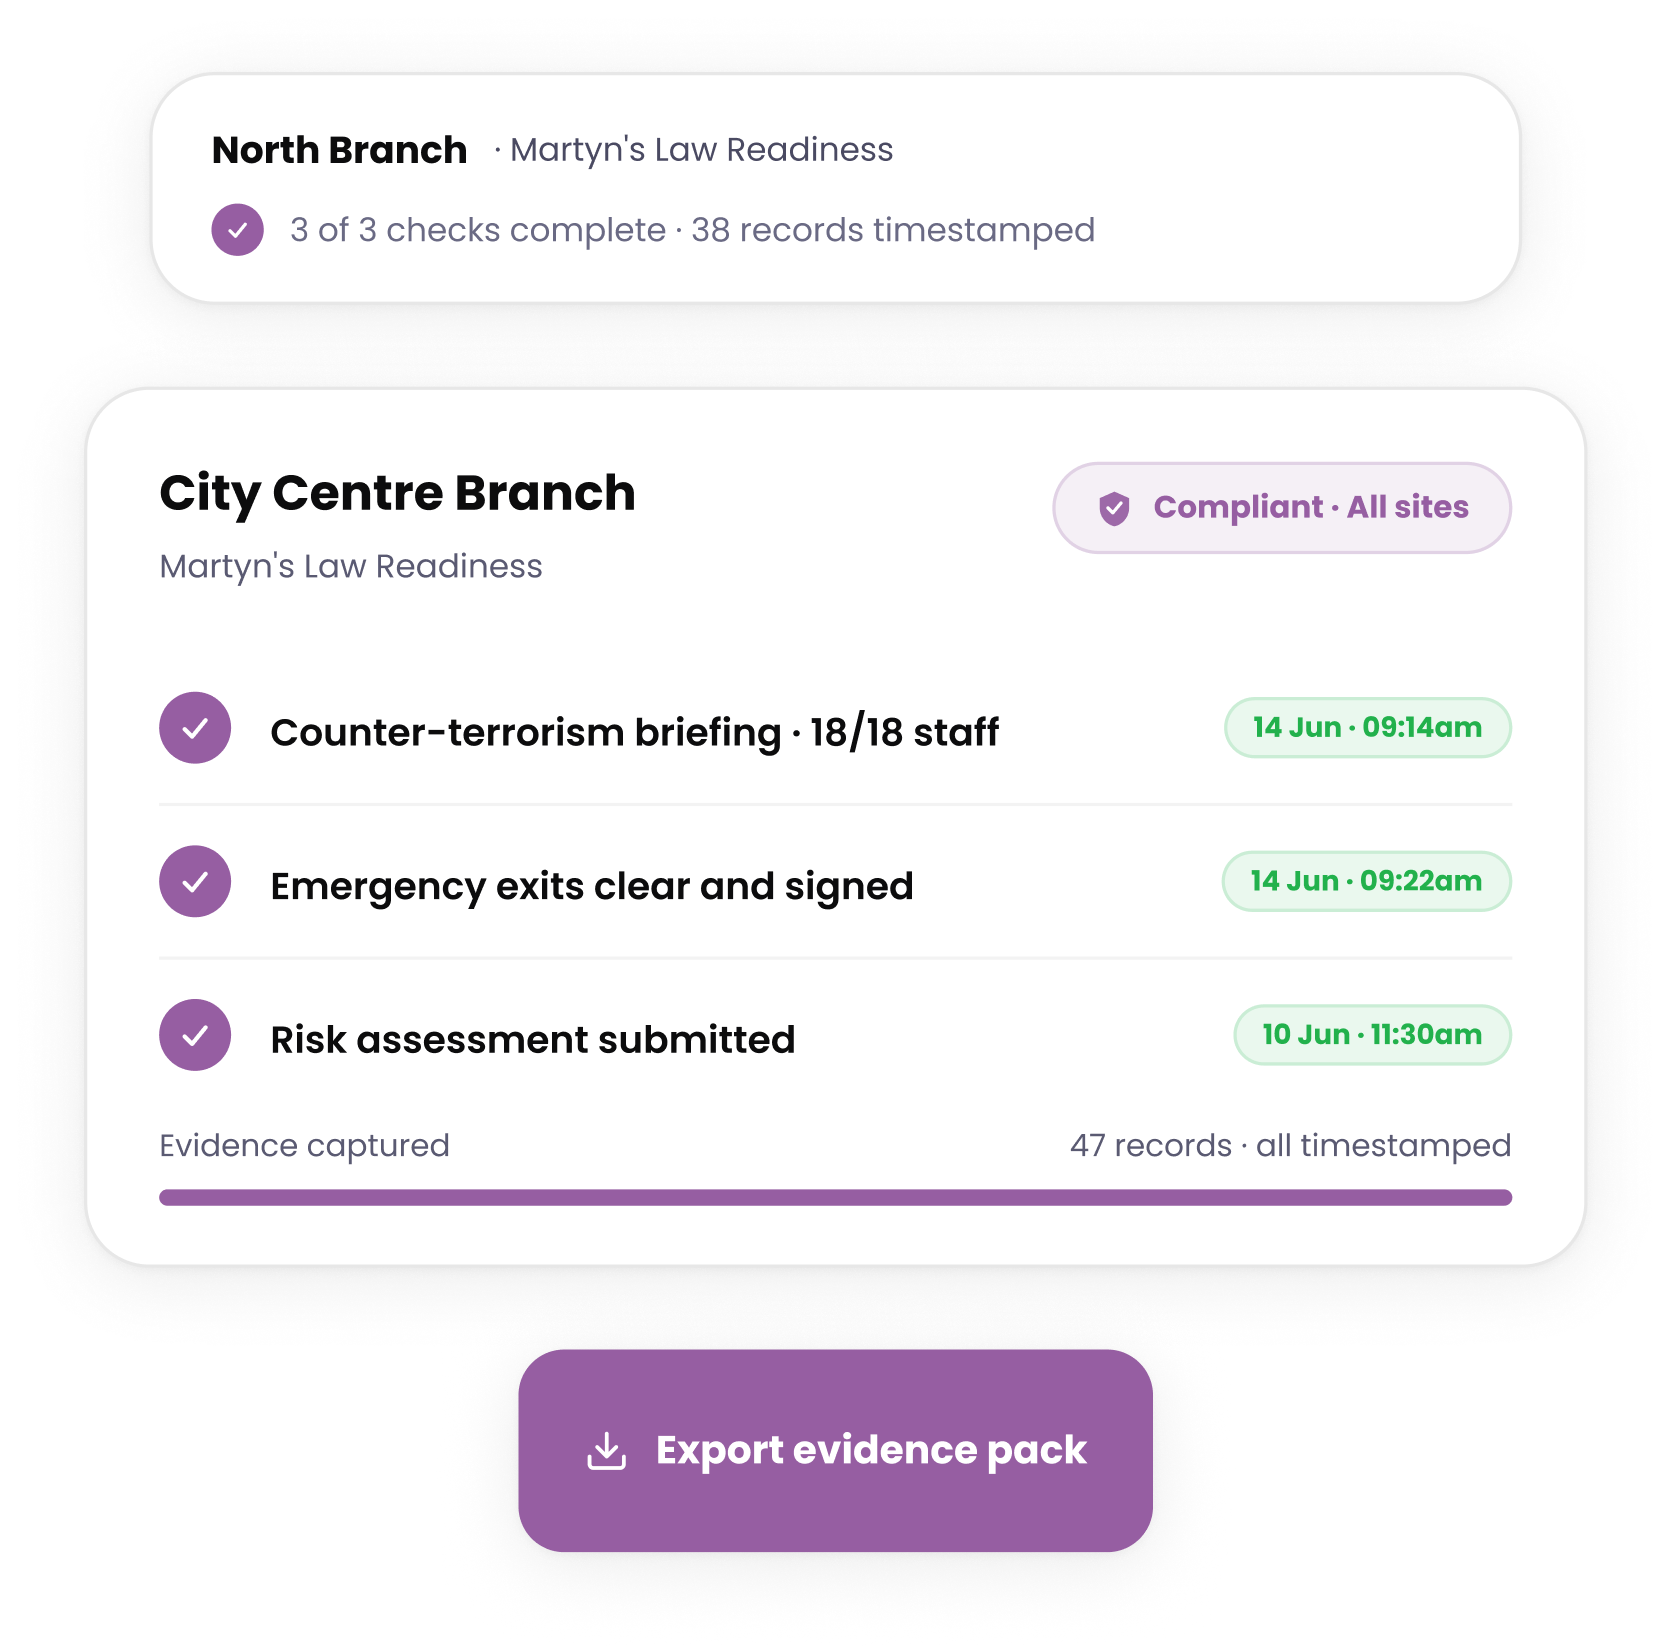
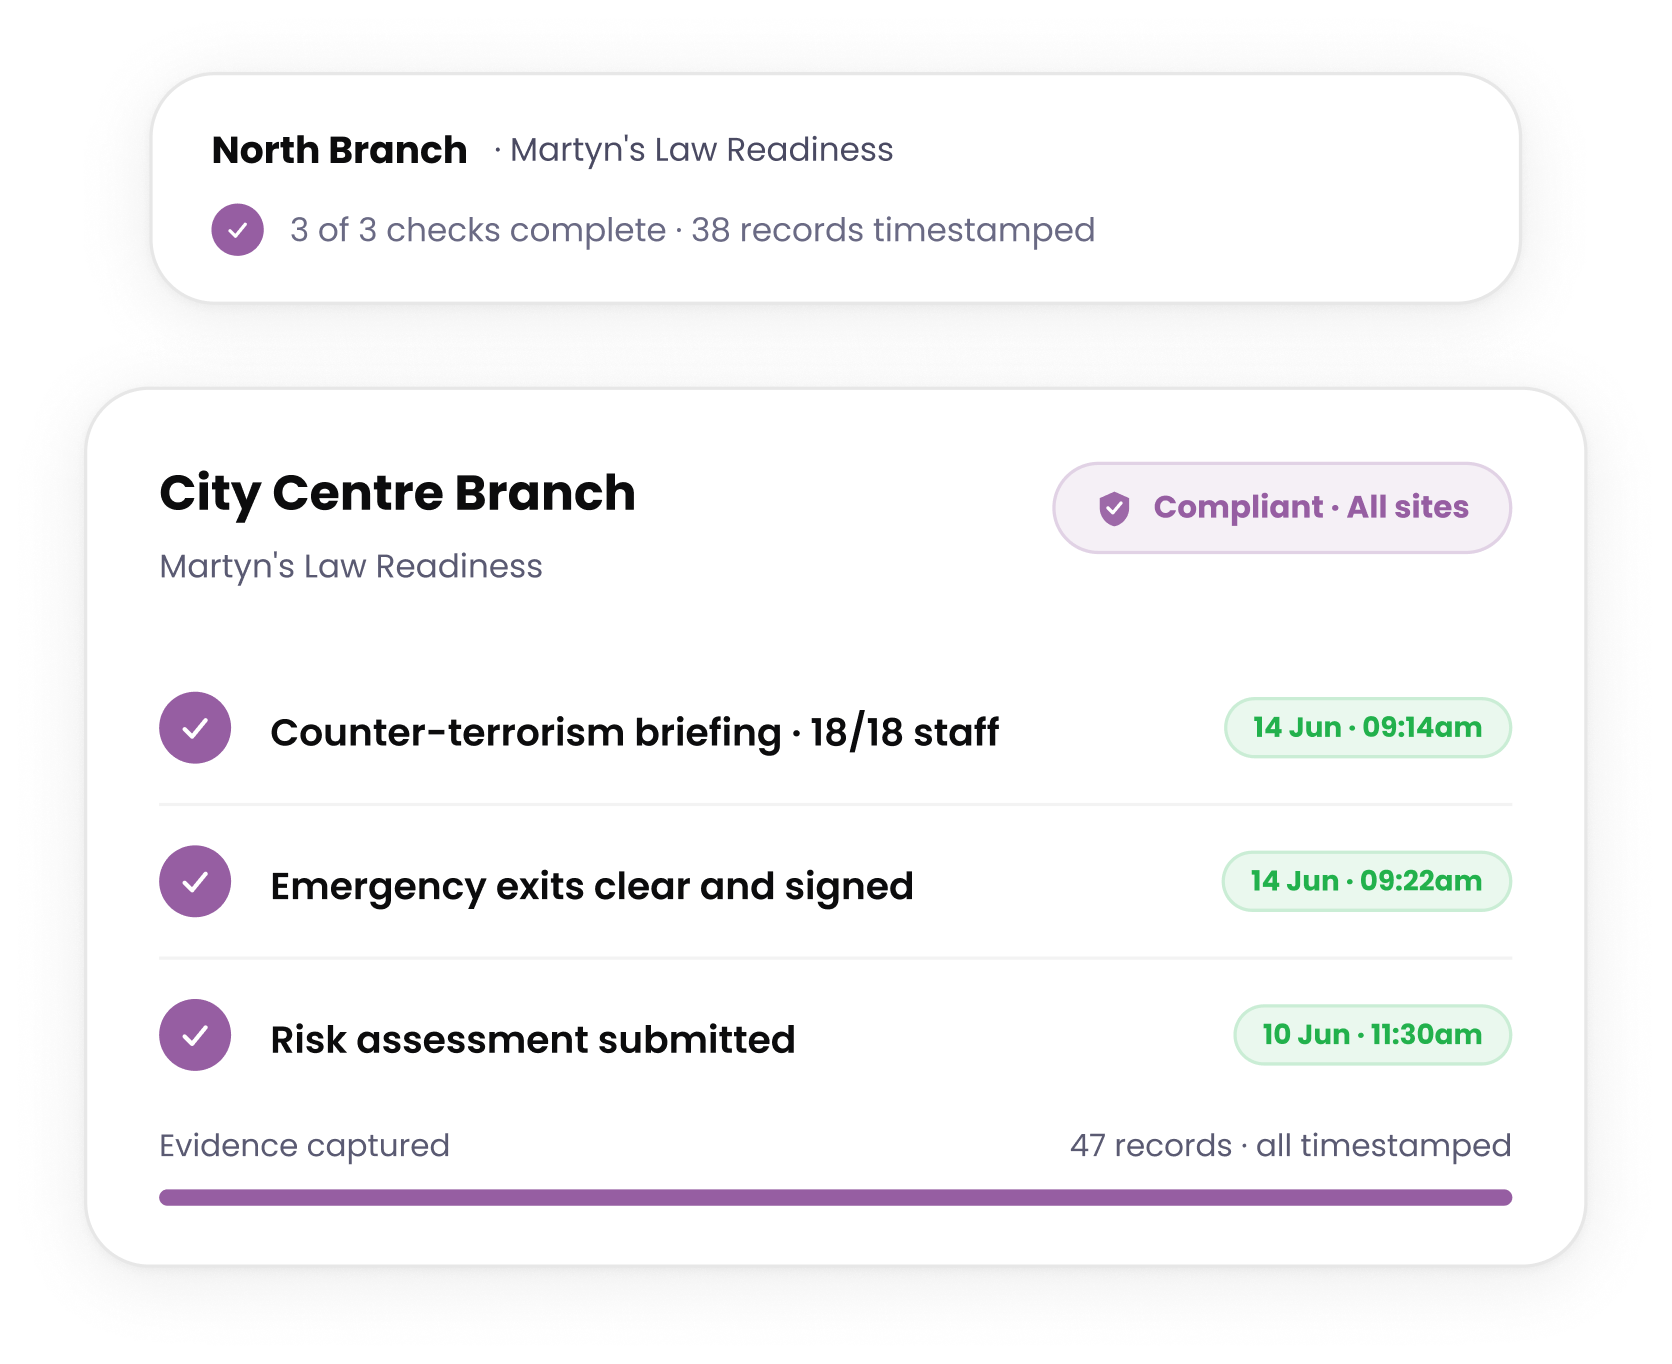
Refactor titles and labels for consistency and clarity across various components. Update image for Martyn's Law cover to enhance visual quality.

diff --git a/app/(website)/products/operational-excellence/knowledge-base/page.js b/app/(website)/products/operational-excellence/knowledge-base/page.js
@@ -103,7 +103,7 @@ export default async function KnowledgeBase() {
 
             <ProductHighlight
                 eyebrow="More from Serve First"
-                title="More of the platform your teams can use."
+                title="More of the platform your teams can use"
                 description="Knowledge Base sits in the same platform as the rest of Serve First, so the right answer is linked to the work it supports."
                 linkText={null}
                 colCount={4}

diff --git a/app/(website)/solutions/by-challenge/prove-improvement/page.js b/app/(website)/solutions/by-challenge/prove-improvement/page.js
@@ -39,7 +39,7 @@ export default function ProveImprovement() {
 
             <ChallengeFrame
                 eyebrow="Common challenges"
-                title="You know it is better. Can you prove it?"
+                title="You know it is better<span class='colorPrimaryAlt'>.</span> Can you prove it<span class='colorPrimaryAlt'>?</span>"
                 hasFullStop={false}
                 data={challengeFrameData}
             />

diff --git a/components/layouts/footer/items/footer-items-data.js b/components/layouts/footer/items/footer-items-data.js
@@ -77,15 +77,15 @@ export const explore = {
       href: "/eva",
     },
     {
-      label: "About Us",
+      label: "About us",
       href: "/company/about",
     },
     {
-      label: "What We Do",
+      label: "What we do",
       href: "/what-does-serve-first-do",
     },
     {
-      label: "Contact Us",
+      label: "Contact us",
       href: "/company/contact-us",
     },
     {
